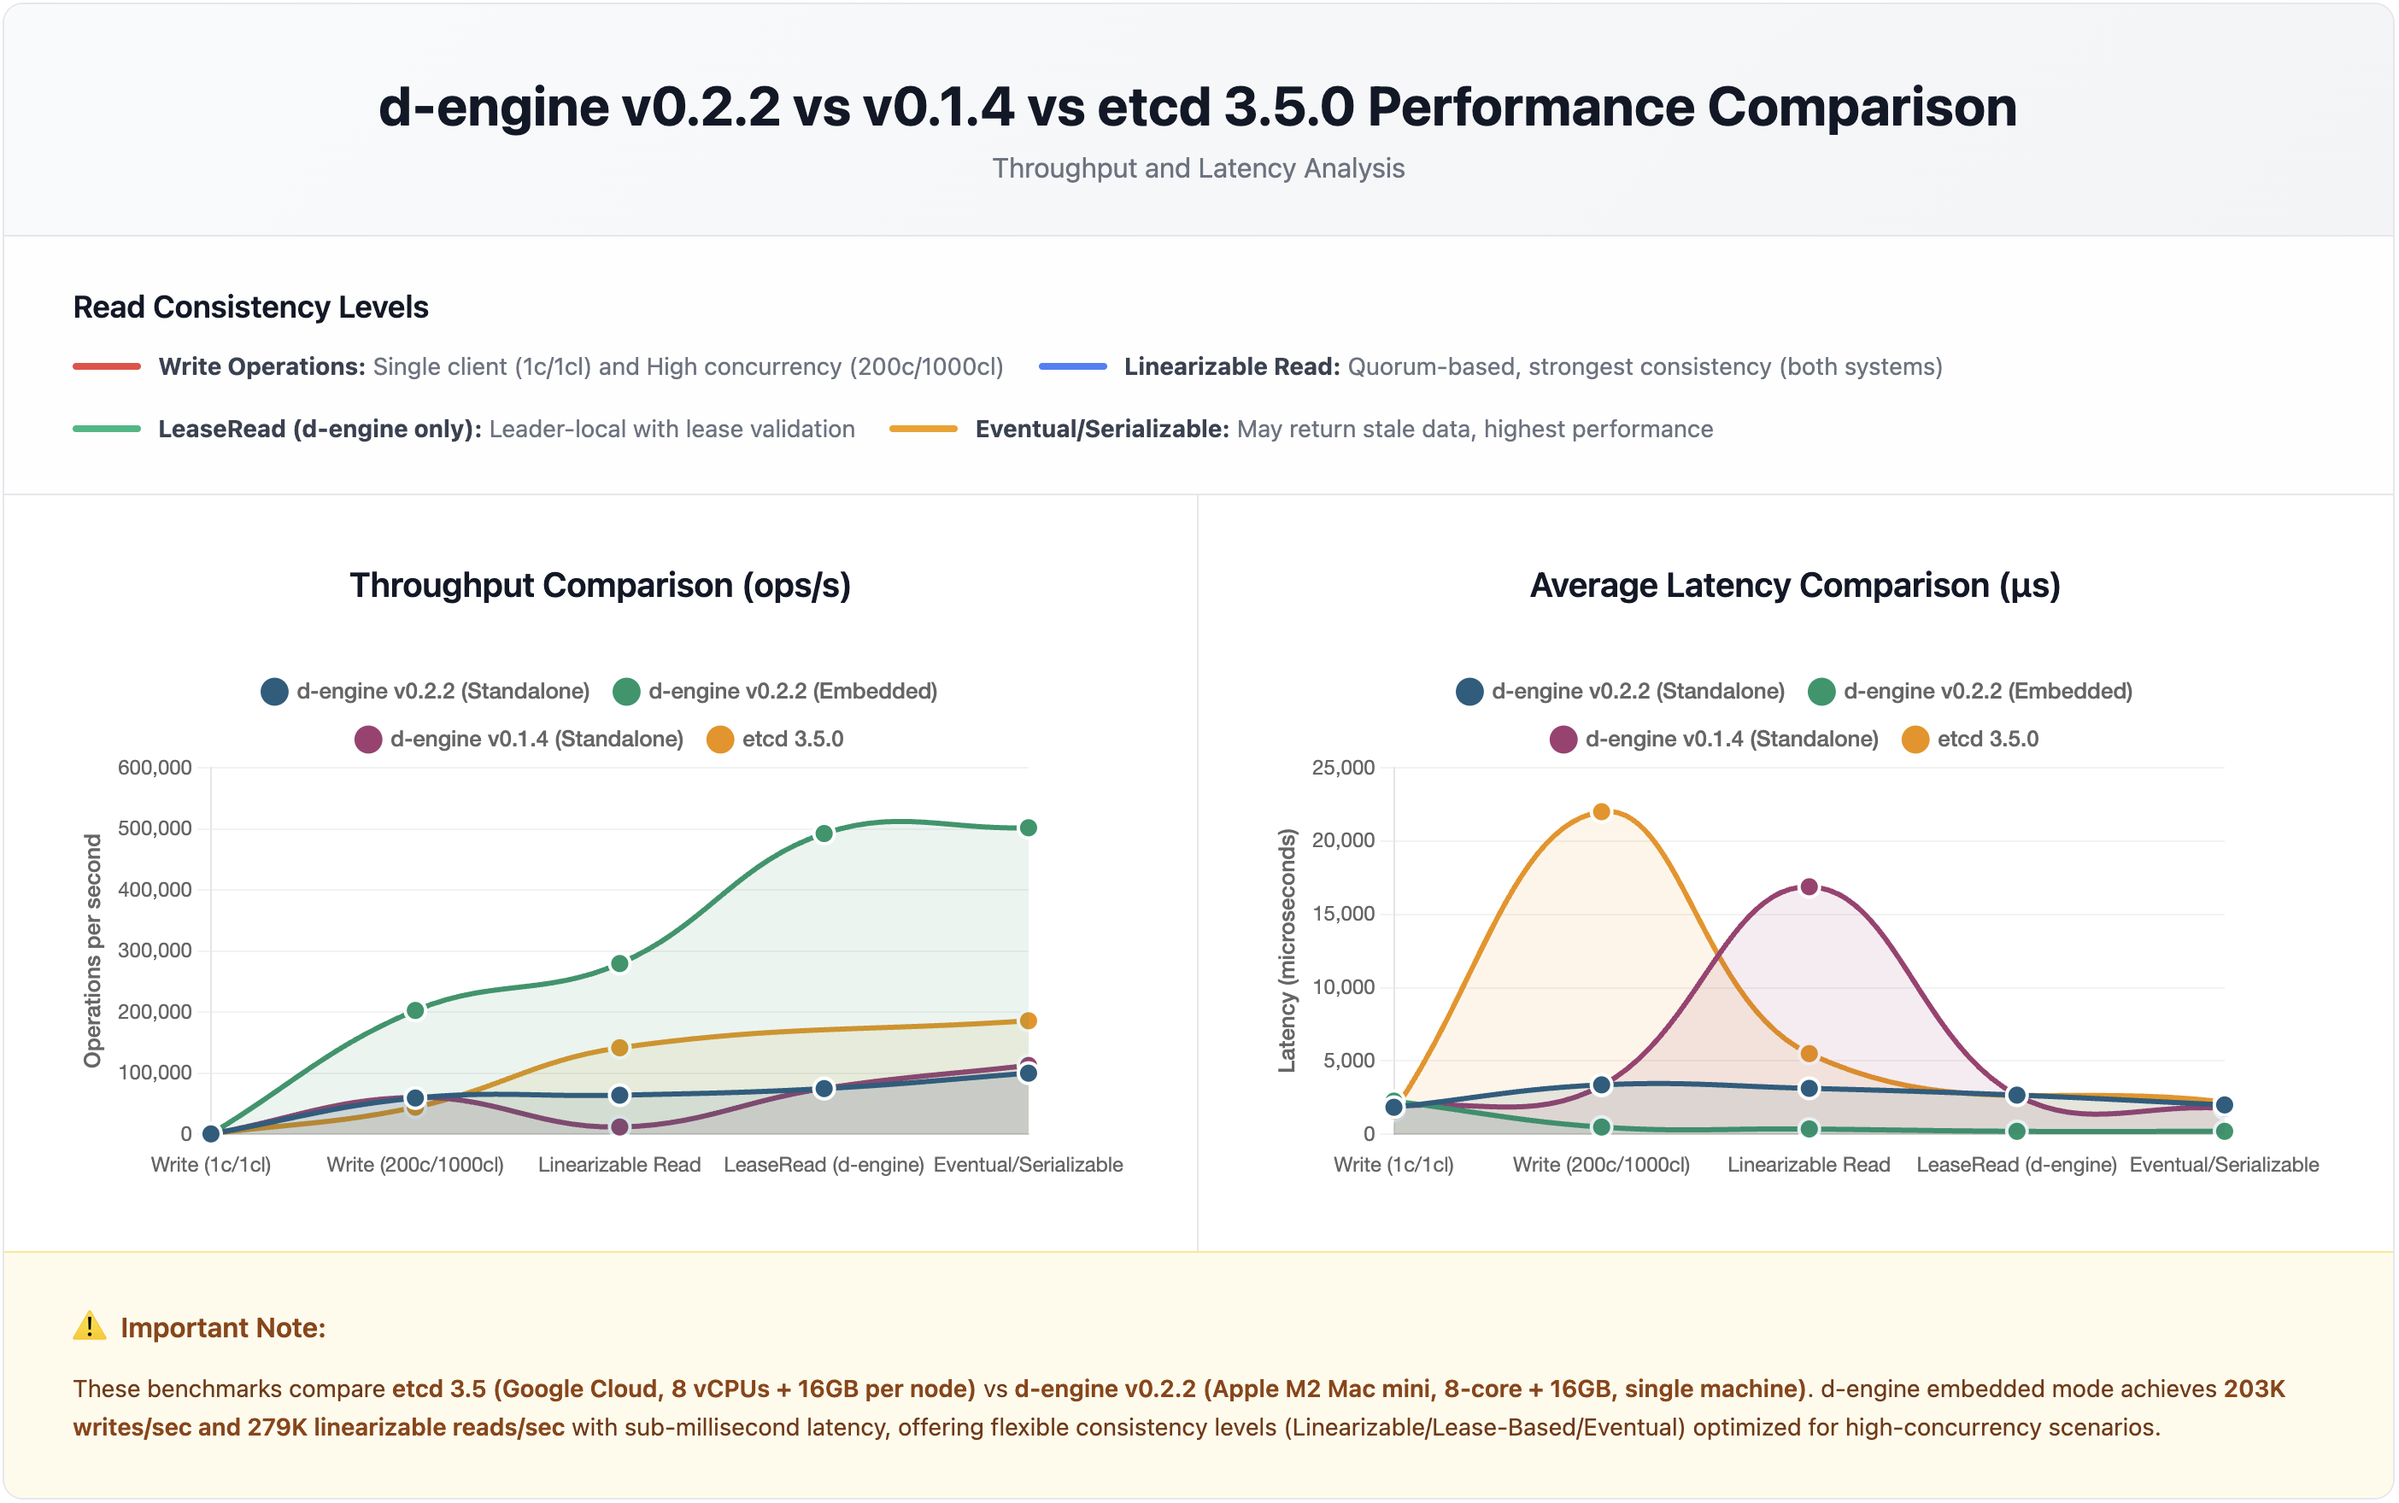
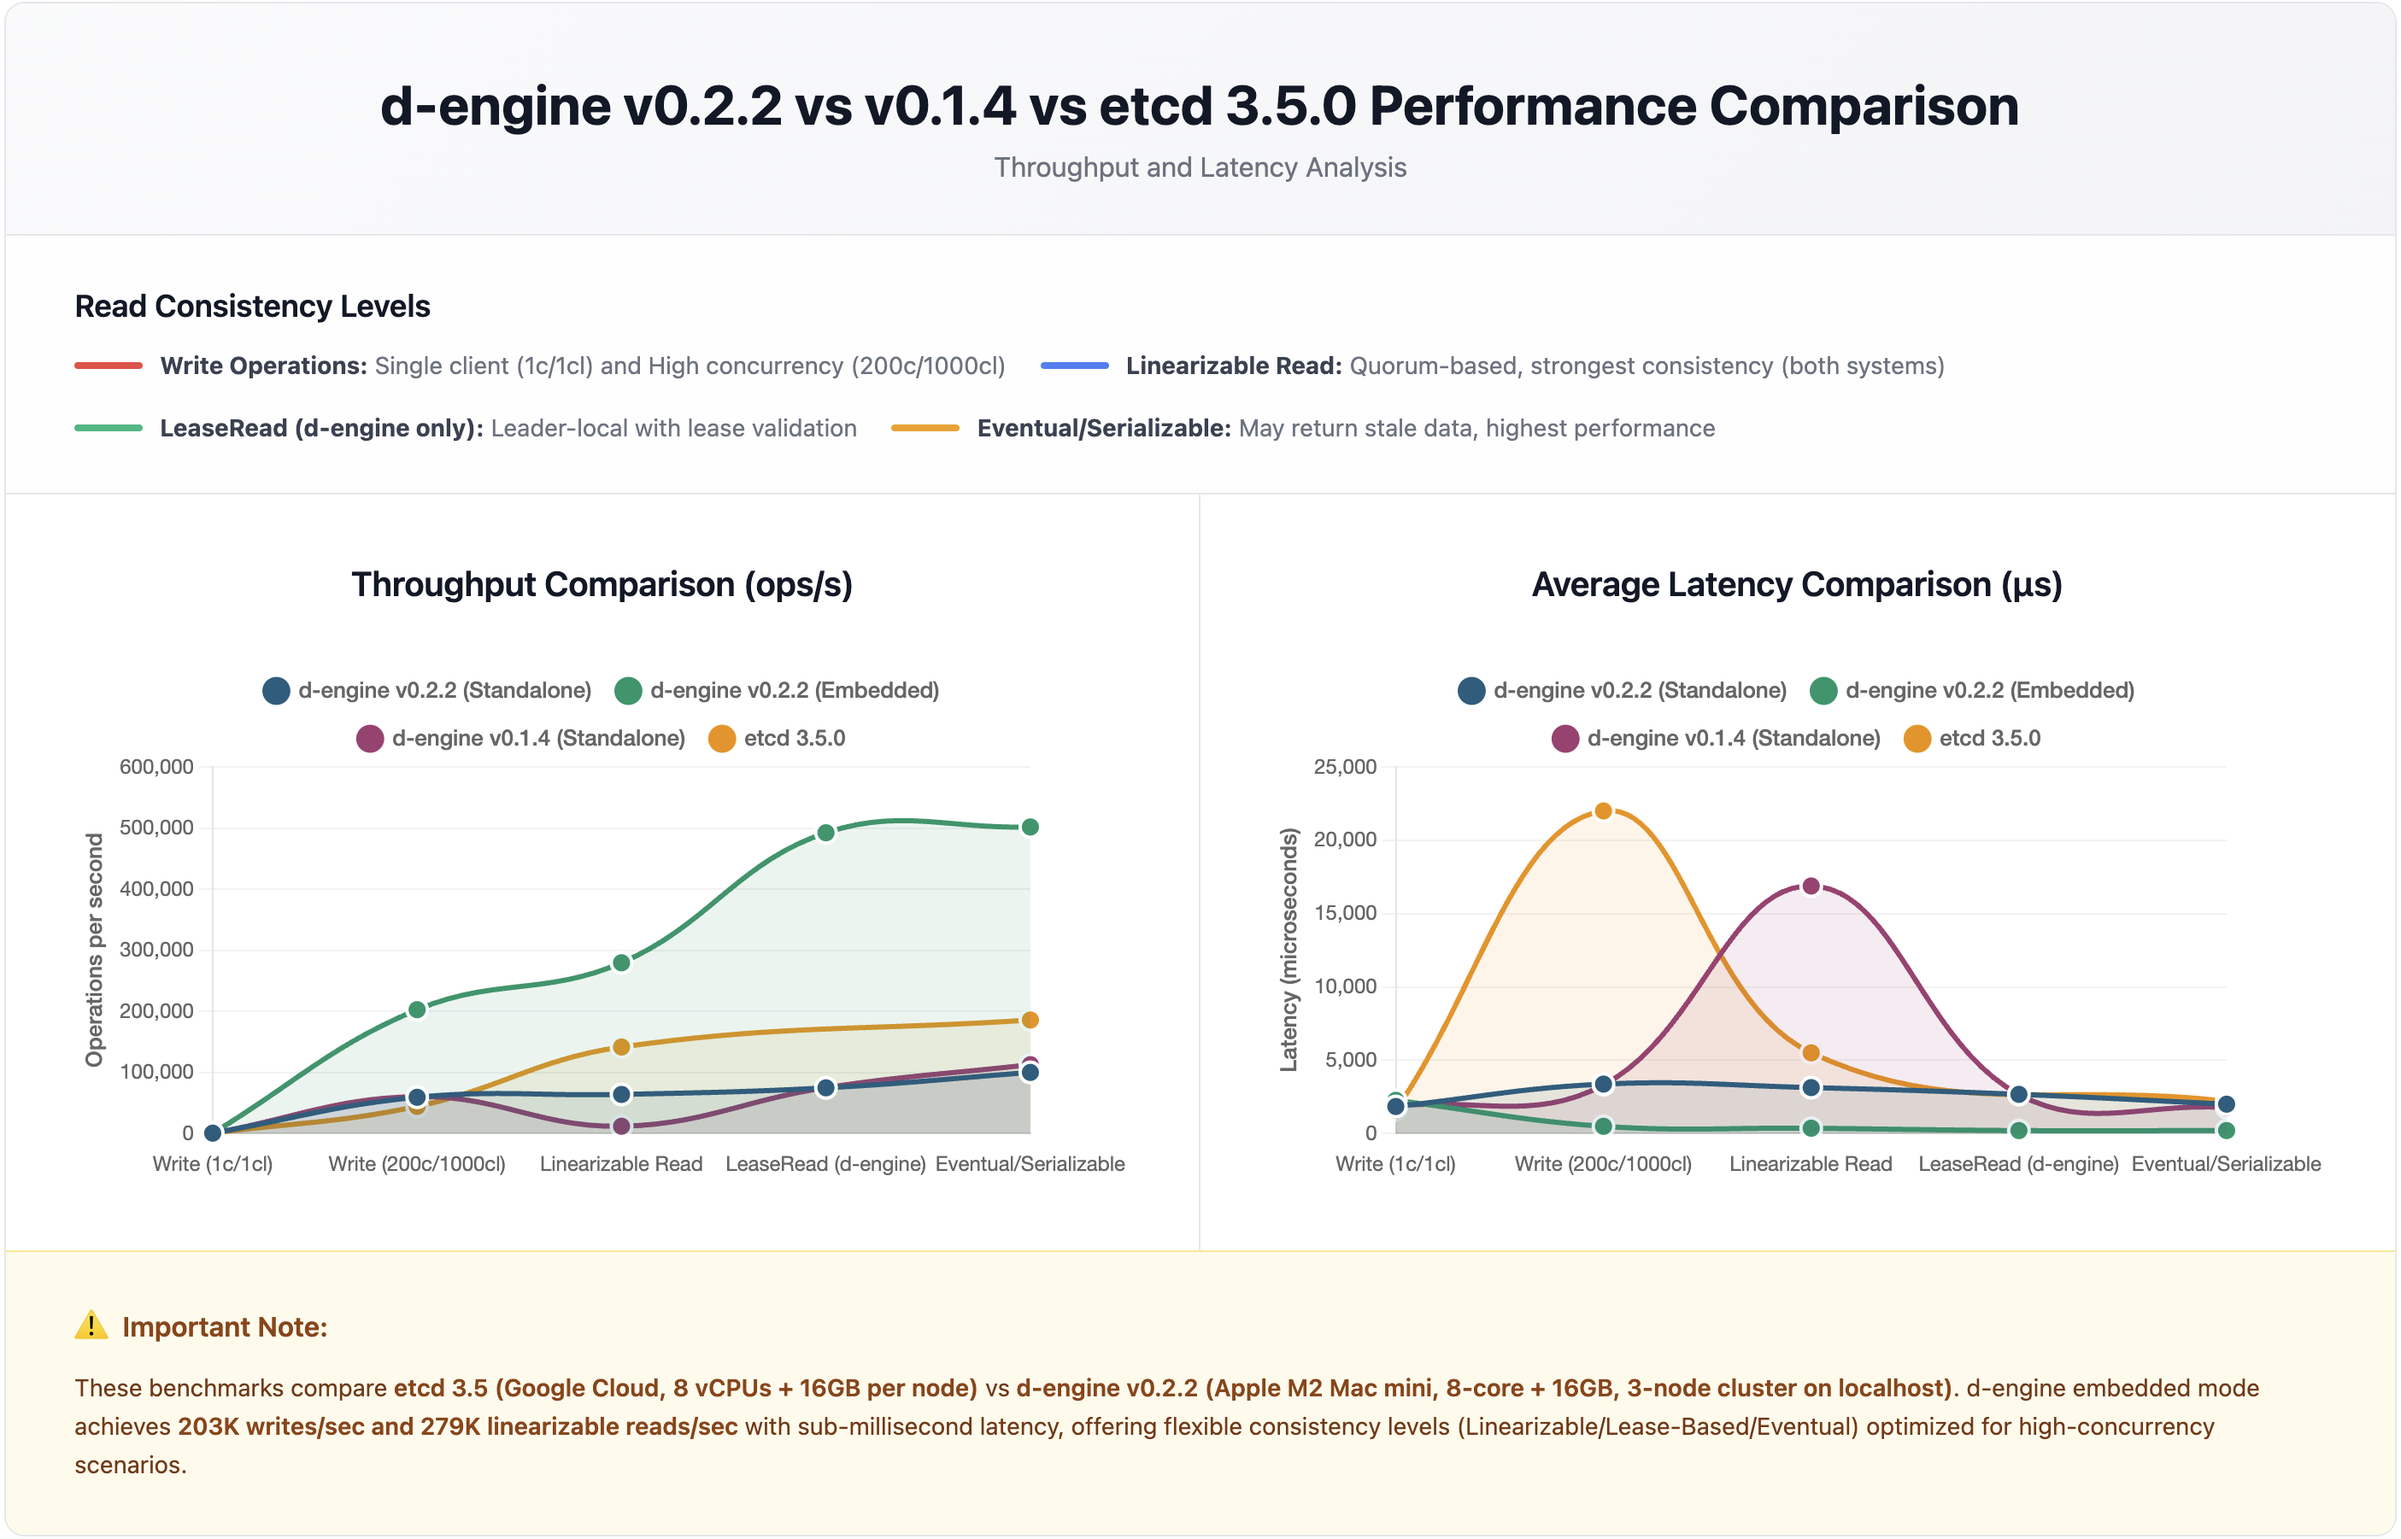
docs #256: clarify benchmark is 3-node cluster, not single-node (#257)
Replace "single machine" → "3-node cluster on localhost" to avoid
confusion with single-node mode. Also convert README relative links
to absolute GitHub URLs.

diff --git a/README.md b/README.md
@@ -72,7 +72,7 @@ async fn main() {
 
 > **Note**: Release builds require explicit `db_root_dir` configuration. Set `CONFIG_PATH` env or use `EmbeddedEngine::with_config(...)`. See [Quick Start Guide](https://docs.rs/d-engine/latest/d_engine/docs/quick_start_5min/index.html).
 
-**→ Full example:** [examples/quick-start-embedded](examples/quick-start-embedded/README.md)
+**→ Full example:** [examples/quick-start-embedded](https://github.com/deventlab/d-engine/tree/main/examples/quick-start-embedded)
 
 ---
 
@@ -87,12 +87,12 @@ d-engine = "0.2"
 **Use when**: Building Rust applications that need distributed coordination  
 **Why**: Zero-overhead (<0.1ms), single binary, zero network cost
 
-> **Performance note**: Embedded mode delivers exceptional performance - **4.6x higher write throughput** and **2x faster linearizable reads** vs etcd 3.5 (M2 Mac single machine vs etcd on 3 GCE instances). Achieves 203K writes/sec and 279K linearizable reads/sec. See [benches/embedded-bench/reports/v0.2.2/](benches/embedded-bench/reports/v0.2.2/) for detailed benchmarks.
+> **Performance note**: Embedded mode delivers exceptional performance - **4.6x higher write throughput** and **2x faster linearizable reads** vs etcd 3.5 (3-node cluster on M2 Mac localhost vs etcd on 3 GCE instances). Achieves 203K writes/sec and 279K linearizable reads/sec. See [benches/embedded-bench/reports/v0.2.2/](https://github.com/deventlab/d-engine/tree/main/benches/embedded-bench/reports/v0.2.2) for detailed benchmarks.
 
 **→ Examples:**
 
-- [Quick Start Embedded](examples/quick-start-embedded/README.md) - Minimal setup
-- [Service Discovery Embedded](examples/service-discovery-embedded/README.md) - Watch API with sub-millisecond latency
+- [Quick Start Embedded](https://github.com/deventlab/d-engine/tree/main/examples/quick-start-embedded) - Minimal setup
+- [Service Discovery Embedded](https://github.com/deventlab/d-engine/tree/main/examples/service-discovery-embedded) - Watch API with sub-millisecond latency
 
 ---
 
@@ -105,11 +105,11 @@ d-engine = { version = "0.2", features = ["client"], default-features = false }
 **Use when**: Application and d-engine run as separate processes  
 **Why**: Language-agnostic (Go/Python/Java/Rust), independent scaling, easier operations
 
-> **Performance note**: Standalone mode achieves 64K writes/sec and 12K linearizable reads/sec via gRPC, suitable for multi-language environments. For maximum performance, use embedded mode (3.1x faster writes, 23x faster reads). See [benches/standalone-bench/reports/v0.2.2/](benches/standalone-bench/reports/v0.2.2/) for benchmarks.
+> **Performance note**: Standalone mode achieves 64K writes/sec and 12K linearizable reads/sec via gRPC, suitable for multi-language environments. For maximum performance, use embedded mode (3.1x faster writes, 23x faster reads). See [benches/standalone-bench/reports/v0.2.2/](https://github.com/deventlab/d-engine/tree/main/benches/standalone-bench/reports/v0.2.2) for benchmarks.
 
 **Note**: Rust apps can use both modes - embedded for performance, standalone for operational flexibility
 
-**→ Example:** [Quick Start Standalone (Go client)](examples/quick-start-standalone/README.md)
+**→ Example:** [Quick Start Standalone (Go client)](https://github.com/deventlab/d-engine/tree/main/examples/quick-start-standalone)
 
 ---
 
@@ -125,7 +125,7 @@ Implement custom storage engines and state machines by implementing the respecti
 
 - **Custom Storage Engines**: [Implementation Guide](https://docs.rs/d-engine/latest/d_engine/docs/server_guide/index.html#implementing-custom-storage-engines)
 - **Custom State Machines**: [Implementation Guide](https://docs.rs/d-engine/latest/d_engine/docs/server_guide/index.html#implementing-custom-state-machines)
-- **Example**: [Sled Storage Backend](examples/sled-cluster)
+- **Example**: [Sled Storage Backend](https://github.com/deventlab/d-engine/tree/main/examples/sled-cluster)
 
 ---
 
@@ -182,7 +182,7 @@ This approach keeps d-engine focused and maintainable.
 ## Contribution Guide
 
 d-engine follows the 20/80 rule - solve real production problems, not experiments.
-Read [Contributing Guide](CONTRIBUTING.md) and open an issue before feature PRs.
+Read [Contributing Guide](https://github.com/deventlab/d-engine/blob/main/CONTRIBUTING.md) and open an issue before feature PRs.
 Bug fixes are always welcome.
 
 ### Prerequisites
@@ -217,7 +217,7 @@ Yes. Scale to 3 nodes later with zero downtime (see `examples/single-node-expans
 Implement `StorageEngine` and `StateMachine` traits (see Custom Storage Implementations section).
 
 **Production-ready?**  
-Core Raft engine is production-grade (1000+ tests, Jepsen validated). API is stabilizing toward v1.0. Pre-1.0 versions may introduce breaking changes (documented in [MIGRATION_GUIDE.md](./MIGRATION_GUIDE.md)).
+Core Raft engine is production-grade (1000+ tests, Jepsen validated). API is stabilizing toward v1.0. Pre-1.0 versions may introduce breaking changes (documented in [MIGRATION_GUIDE.md](https://github.com/deventlab/d-engine/blob/main/MIGRATION_GUIDE.md)).
 
 ## Supported Platforms
 

diff --git a/benches/embedded-bench/reports/v0.2.2/embedded_bench_report_v0.2.2.md b/benches/embedded-bench/reports/v0.2.2/embedded_bench_report_v0.2.2.md
@@ -11,7 +11,7 @@
 - ✅ Rust-native applications requiring ultra-low latency
 - ✅ High-throughput systems (200K+ ops/sec)
 - ✅ Zero serialization overhead (direct memory access)
-- ✅ Single-machine vertical scaling
+- ✅ 3-node cluster on single machine (vertical scaling)
 
 **Embedded Mode Performance**:
 
@@ -32,7 +32,7 @@
 **Key Insight**: Code optimizations significantly improved linearizable read performance (20x vs previous), while maintaining sub-millisecond latencies across all consistency modes. Single-client write shows Raft consensus overhead, but high-concurrency write achieves 3.1x speedup.
 
 **Test Date**: January 8, 2026
-**Hardware**: Apple M2 Mac mini (8-core, 16GB RAM, single machine 3-node cluster)
+**Hardware**: Apple M2 Mac mini (8-core, 16GB RAM, 3-node cluster on localhost)
 
 ---
 
@@ -171,7 +171,7 @@ make test-hot-key NODE=n1
 - **Machine:** Apple Mac mini (M2 Chip)
   - 8-core CPU (4 performance + 4 efficiency cores)
   - 16GB Unified Memory
-  - Single machine deployment (all 3 nodes on same machine)
+  - 3-node cluster on localhost (all nodes on same machine)
 - **Software:** d-engine v0.2.2
 - **Storage:** RocksDB backend with MemFirst + Batch Flush (threshold=1024, interval=100ms)
 - **Cluster:** 3-node embedded configuration
@@ -312,7 +312,7 @@ make test-hot-key NODE=n1
 ### Best For Embedded Mode
 
 - **Rust-native applications** requiring ultra-low latency
-- **Single-machine deployments** with vertical scaling
+- **3-node cluster on single machine** with vertical scaling
 - **High-throughput systems** (500K+ ops/sec read workloads)
 - **Real-time services** with <2ms latency requirements
 
@@ -343,7 +343,7 @@ d-engine v0.2.2 embedded mode delivers **exceptional performance** for in-proces
 - Rust-native applications
 - Ultra-low latency requirements (<0.1ms)
 - High-throughput workloads (200K+ ops/sec)
-- Single-machine deployment acceptable
+- 3-node cluster on single machine acceptable
 - Zero-copy operations critical
 
 **Production Ready**: Robust hot-key handling (306K ops/sec under contention), predictable tail latencies, zero-copy operations.
@@ -352,5 +352,5 @@ d-engine v0.2.2 embedded mode delivers **exceptional performance** for in-proces
 
 **Version:** d-engine v0.2.2
 **Report Date:** January 8, 2026
-**Test Environment:** Apple M2 Mac mini (8-core, 16GB RAM, single machine 3-node embedded cluster)
+**Test Environment:** Apple M2 Mac mini (8-core, 16GB RAM, 3-node embedded cluster on localhost)
 **Benchmark Mode:** Batch execution (all tests in sequence)

diff --git a/benches/standalone-bench/reports/v0.2.0/report_v0.2.0_final.md b/benches/standalone-bench/reports/v0.2.0/report_v0.2.0_final.md
@@ -14,7 +14,7 @@
 - ✅ **LeaseRead p99**: -44% latency (7.87ms vs 14.05ms) - biggest win
 - ✅ **No regressions detected**
 
-**Hardware Context**: d-engine on M2 Mac mini (single machine) vs etcd on GCE (3 dedicated machines)
+**Hardware Context**: d-engine 3-node cluster on M2 Mac localhost vs etcd on GCE (3 dedicated machines)
 
 **Test Date**: December 13, 2025 (both v0.1.4 and v0.2.0 tested same day for fair comparison)
 
@@ -258,5 +258,5 @@ d-engine v0.2.0 demonstrates **consistent performance improvements** across all 
 
 **Version:** d-engine v0.2.0  
 **Report Date:** December 13, 2025  
-**Test Environment:** Apple M2 Mac mini (8-core, 16GB RAM, single machine 3-node cluster)  
+**Test Environment:** Apple M2 Mac mini (8-core, 16GB RAM, 3-node cluster on localhost)
 **Benchmark Runs:** Single run per configuration (same-day testing for v0.1.4 and v0.2.0)

diff --git a/benches/standalone-bench/reports/v0.2.2/standalone_bench_report_v0.2.2.md b/benches/standalone-bench/reports/v0.2.2/standalone_bench_report_v0.2.2.md
@@ -28,7 +28,7 @@
 
 **Key Achievement**: Linearizable read latency reduced by **81.5%** (3.1ms vs 16.9ms), achieving production-grade performance for strong consistency reads.
 
-**Hardware Context**: d-engine on M2 Mac mini (single machine) vs etcd on GCE (3 dedicated machines)
+**Hardware Context**: d-engine 3-node cluster on M2 Mac localhost vs etcd on GCE (3 dedicated machines)
 
 **Test Date**: January 9, 2026
 
@@ -309,5 +309,5 @@ d-engine v0.2.2 Standalone mode demonstrates **significant performance improveme
 
 **Version:** d-engine v0.2.2
 **Report Date:** January 9, 2026
-**Test Environment:** Apple M2 Mac mini (8-core, 16GB RAM, single machine 3-node cluster)
+**Test Environment:** Apple M2 Mac mini (8-core, 16GB RAM, 3-node cluster on localhost)
 **Benchmark Runs:** Single run per configuration (same-day testing for v0.1.4 and v0.2.2)
